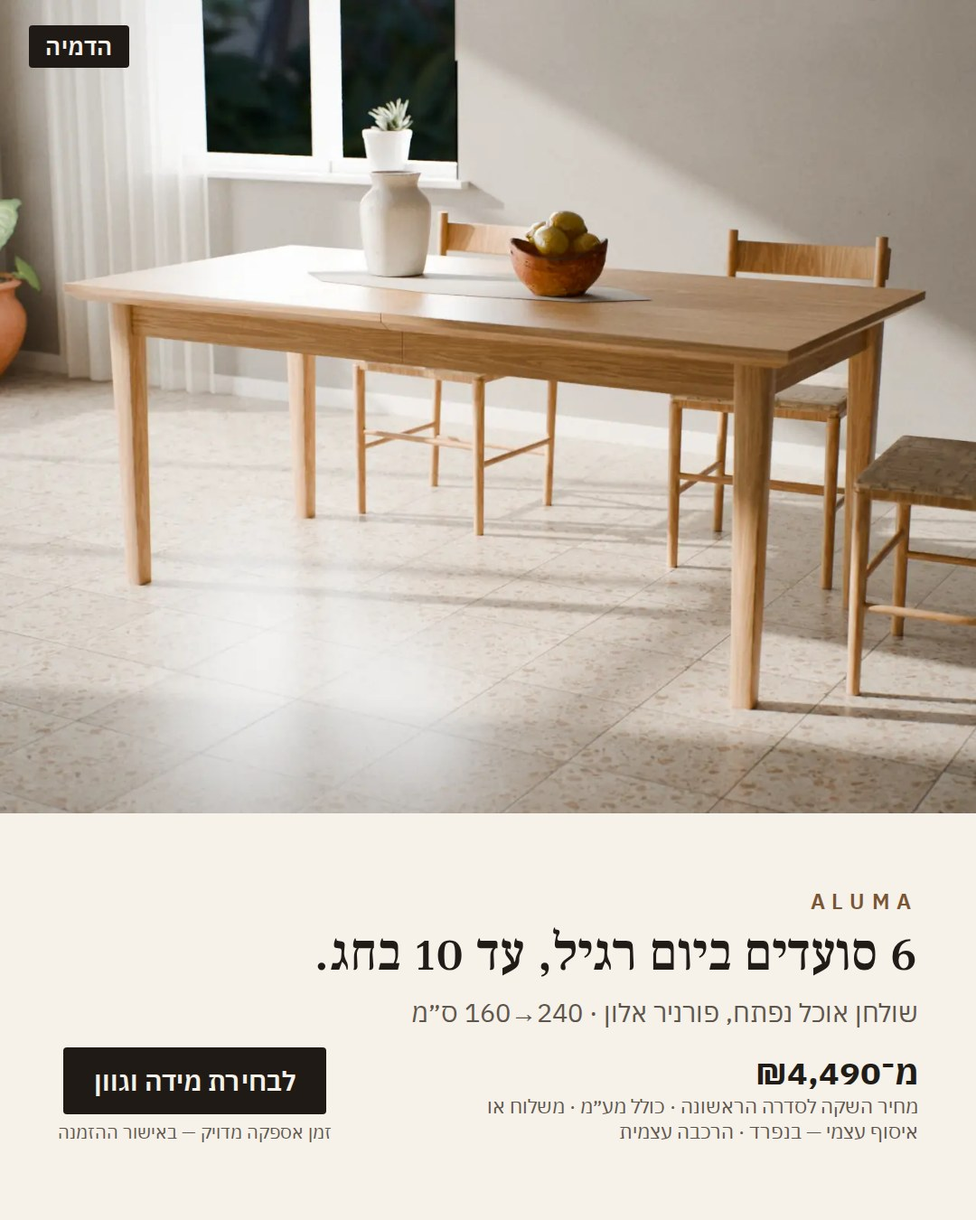
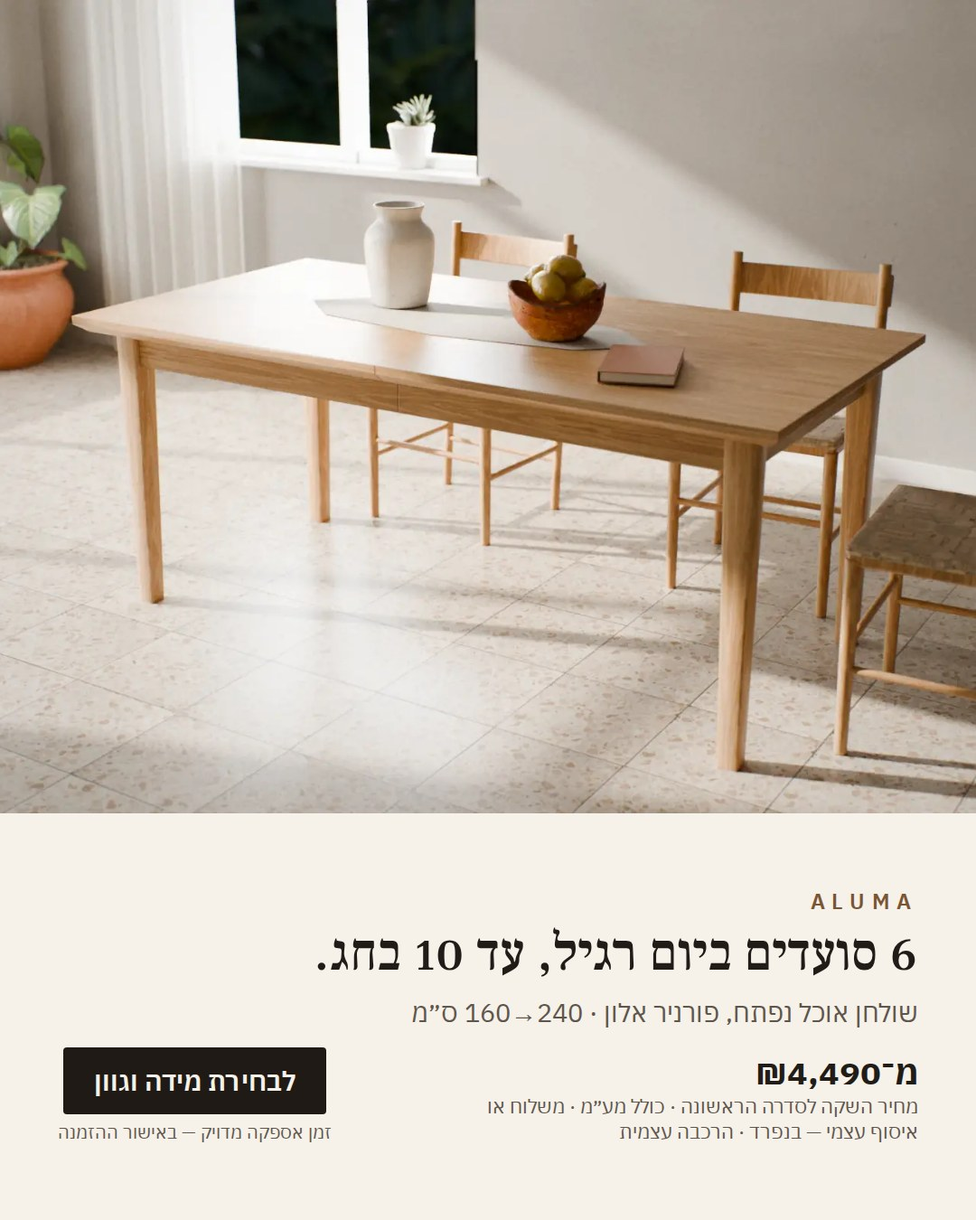
chore(site): хвости «הדמיה», кнопка en 1440, невикористані ключі i18n (№23) (#144)
* chore(site): хвости «הדמיה», кнопка en 1440, невикористані ключі i18n (№23)

- aria-roledescription 3D без «הדמיה»; тест: dist/ без слова поза terms
- IG 04/05 без «הדמיה»; генератори OG і креативів без плашки (mark порожній)
- пара кнопок картки: текст переноситься в кнопці; responsive.spec — пара в колонці
- tools/i18n_unused.py + тест; прибрано a11y_close, cta_register_short, pt_2, trust_own

Claude-Session: https://claude.ai/code/session_01JBa4pMSknCistJo1f6VYPh

* chore(og): OG і креативи перегенеровано без плашки «הדמיה» (№23)

Ті самі інструменти: tools/make-og-products.js (7 OG, home-he без сирого <span>),
tools/creatives/build.js (9 креативів ✓, report.json).

Claude-Session: https://claude.ai/code/session_01JBa4pMSknCistJo1f6VYPh

---------

diff --git a/docs/creatives/preview.html b/docs/creatives/preview.html
@@ -4,9 +4,9 @@
 <style>body{margin:0;padding:24px;background:#F6F1E9;color:#211C17;font:15px/1.4 system-ui,sans-serif}
 h1{font-size:22px;margin:0 0 16px}h2{font-size:17px;margin:24px 0 8px}.row{display:flex;gap:16px;align-items:flex-start;flex-wrap:wrap}
 figure{margin:0}img{display:block;height:auto;max-width:100%;box-shadow:0 1px 4px rgba(0,0,0,.18)}figcaption{font-size:13px;color:#5E554C;margin-top:6px}</style>
-</head><body><h1>ALUMA — креативи для тесту Meta (візуалізації, «הדמיה»)</h1>
+</head><body><h1>ALUMA — креативи для тесту Meta (візуалізації, «»)</h1>
 <p>Згенеровано: node tools/creatives/build.js. Ціни — «מחיר השקה לסדרה הראשונה», з каталогу.</p>
-<section><h2>tavor</h2><div class="row"><figure><img src="tavor-1080x1080.jpg" alt="tavor 1080×1080" width="270" height="270"><figcaption>1080×1080 · 142 KB · текст 9.9 % · контраст ≥ 5.9</figcaption></figure><figure><img src="tavor-1080x1350.jpg" alt="tavor 1080×1350" width="270" height="337.5"><figcaption>1080×1350 · 160 KB · текст 9.1 % · контраст ≥ 5.9</figcaption></figure><figure><img src="tavor-1080x1920.jpg" alt="tavor 1080×1920" width="270" height="480"><figcaption>1080×1920 · 250 KB · текст 6.6 % · контраст ≥ 5.9</figcaption></figure></div></section>
-<section><h2>sahar</h2><div class="row"><figure><img src="sahar-1080x1080.jpg" alt="sahar 1080×1080" width="270" height="270"><figcaption>1080×1080 · 146 KB · текст 9.5 % · контраст ≥ 5.9</figcaption></figure><figure><img src="sahar-1080x1350.jpg" alt="sahar 1080×1350" width="270" height="337.5"><figcaption>1080×1350 · 167 KB · текст 8.7 % · контраст ≥ 5.9</figcaption></figure><figure><img src="sahar-1080x1920.jpg" alt="sahar 1080×1920" width="270" height="480"><figcaption>1080×1920 · 263 KB · текст 6.3 % · контраст ≥ 5.9</figcaption></figure></div></section>
-<section><h2>collection</h2><div class="row"><figure><img src="collection-1080x1080.jpg" alt="collection 1080×1080" width="270" height="270"><figcaption>1080×1080 · 180 KB · текст 9.2 % · контраст ≥ 5.9</figcaption></figure><figure><img src="collection-1080x1350.jpg" alt="collection 1080×1350" width="270" height="337.5"><figcaption>1080×1350 · 219 KB · текст 8.3 % · контраст ≥ 5.9</figcaption></figure><figure><img src="collection-1080x1920.jpg" alt="collection 1080×1920" width="270" height="480"><figcaption>1080×1920 · 240 KB · текст 6.0 % · контраст ≥ 5.9</figcaption></figure></div></section>
+<section><h2>tavor</h2><div class="row"><figure><img src="tavor-1080x1080.jpg" alt="tavor 1080×1080" width="270" height="270"><figcaption>1080×1080 · 141 KB · текст 9.7 % · контраст ≥ 5.9</figcaption></figure><figure><img src="tavor-1080x1350.jpg" alt="tavor 1080×1350" width="270" height="337.5"><figcaption>1080×1350 · 161 KB · текст 8.9 % · контраст ≥ 5.9</figcaption></figure><figure><img src="tavor-1080x1920.jpg" alt="tavor 1080×1920" width="270" height="480"><figcaption>1080×1920 · 171 KB · текст 6.4 % · контраст ≥ 5.9</figcaption></figure></div></section>
+<section><h2>sahar</h2><div class="row"><figure><img src="sahar-1080x1080.jpg" alt="sahar 1080×1080" width="270" height="270"><figcaption>1080×1080 · 147 KB · текст 9.3 % · контраст ≥ 5.9</figcaption></figure><figure><img src="sahar-1080x1350.jpg" alt="sahar 1080×1350" width="270" height="337.5"><figcaption>1080×1350 · 166 KB · текст 8.5 % · контраст ≥ 5.9</figcaption></figure><figure><img src="sahar-1080x1920.jpg" alt="sahar 1080×1920" width="270" height="480"><figcaption>1080×1920 · 175 KB · текст 6.1 % · контраст ≥ 5.9</figcaption></figure></div></section>
+<section><h2>collection</h2><div class="row"><figure><img src="collection-1080x1080.jpg" alt="collection 1080×1080" width="270" height="270"><figcaption>1080×1080 · 173 KB · текст 9.0 % · контраст ≥ 5.9</figcaption></figure><figure><img src="collection-1080x1350.jpg" alt="collection 1080×1350" width="270" height="337.5"><figcaption>1080×1350 · 210 KB · текст 8.1 % · контраст ≥ 5.9</figcaption></figure><figure><img src="collection-1080x1920.jpg" alt="collection 1080×1920" width="270" height="480"><figcaption>1080×1920 · 234 KB · текст 5.9 % · контраст ≥ 5.9</figcaption></figure></div></section>
 </body></html>

diff --git a/tools/creatives/video.js b/tools/creatives/video.js
@@ -16,7 +16,7 @@ const fs = require('fs');
 const os = require('os');
 const path = require('path');
 const { spawnSync } = require('child_process');
-const { ROOT, TYPES, LANGS, localize, local, esc, fontFaces, fill, priceVars, headlineOf } = require('./build');
+const { ROOT, TYPES, LANGS, localize, local, esc, dropEmptyMark, fontFaces, fill, priceVars, headlineOf } = require('./build');
 
 process.env.PLAYWRIGHT_BROWSERS_PATH = process.env.PLAYWRIGHT_BROWSERS_PATH || '/opt/ihor/aluma-table/ms-playwright';
 const { chromium } = require('@playwright/test');
@@ -131,10 +131,10 @@ function html(template, cfg, f, plan, fonts, id) {
   const shots = plan.imgs.map((file, i) => `<div class="shot${fullIn(file, f) ? ' full' : ''}${frameFor(file, f) !== file ? ' tall' : ''}"><img src="${ORIGIN}/img/${id}/${i}" alt=""></div>`).join('');
   const map = { ...lang, FONTS: fonts.css, SERIF: fonts.serif, W: f.width, H: f.height, FORMAT: f.id, SHOTS: shots,
     CARD: plan.card, MARK: esc(cfg.mark), TIMELINE: JSON.stringify(plan.timeline) };
-  return template.replace(/\{\{(\w+)\}\}/g, (m, k) => {
+  return dropEmptyMark(template.replace(/\{\{(\w+)\}\}/g, (m, k) => {
     if (!(k in map)) throw new Error(`шаблон: невідомий ${m}`);
     return String(map[k]);
-  });
+  }));
 }
 
 // У сторінці, на кадрі часу t: що з тексту видно, де воно, який контраст; «הדמיה»; переповнення картки.
@@ -176,7 +176,7 @@ function inspect(safe) {
     out.push({ text: el.textContent.trim().slice(0, 30), alpha: a, contrast: bg ? (x + 0.05) / (y + 0.05) : 0,
       inside: r.left >= 0 && r.right <= W && r.top >= safe * H - 0.5 && r.bottom <= (1 - safe) * H + 0.5 });
   }
-  const mark = document.querySelector('.mark'); const m = mark.getBoundingClientRect();
+  const mark = document.querySelector('.mark'); const m = mark ? mark.getBoundingClientRect() : { top: 0, left: 0, width: 0 };
   const card = document.querySelector('.card');
   const over = [card, ...card.querySelectorAll('.item')].some((e) => e.scrollHeight > e.clientHeight + 1 || e.scrollWidth > e.clientWidth + 1);
   // Товар не під карткою: де кадр — смуга (9:16, 4:5), картка починається нижче за неї; у 9:16 картка ще й вище нижніх 20 %.
@@ -187,9 +187,9 @@ function inspect(safe) {
   const fullTooHigh = !!document.querySelector('.shot.tall') && cr.top < 1000;
   const fullNot916 = [...document.querySelectorAll('.shot.tall img')].some((i) => i.naturalWidth * 16 !== i.naturalHeight * 9);
   const low = safe > 0 && cr.bottom > 0.8 * H + 0.5;
-  return { texts: out, covered, low, fullTooHigh, fullNot916, mark: mark.textContent.trim(), markAlpha: alpha(mark), markInside: m.top >= safe * H - 0.5 && m.left >= 0 && m.width > 0,
+  return { texts: out, covered, low, fullTooHigh, fullNot916, mark: mark ? mark.textContent.trim() : '', markAlpha: mark ? alpha(mark) : 1, markInside: m.top >= safe * H - 0.5 && m.left >= 0 && m.width > 0,
     over, imagesOk: [...document.images].every((i) => i.complete && i.naturalWidth > 0),
-    fontsOk: fontFor(mark.textContent.trim(), '600') };
+    fontsOk: mark ? fontFor(mark.textContent.trim(), '600') : document.fonts.check('600 26px "IBM Plex Sans Hebrew"', 'א') };
 }
 
 function ffmpeg(argv) {
@@ -281,7 +281,7 @@ async function main() {
           await page.evaluate((x) => window.render(x), t);
           if (i % (FPS / 2) === 0) {
             const c = await page.evaluate(inspect, safe);
-            if (c.mark !== cfg.mark || c.markAlpha < 0.999 || !c.markInside) problems.add(`${t.toFixed(1)} с: нема «${cfg.mark}»`);
+            if (cfg.mark && (c.mark !== cfg.mark || c.markAlpha < 0.999 || !c.markInside)) problems.add(`${t.toFixed(1)} с: нема «${cfg.mark}»`);
             if (c.over) problems.add(`${t.toFixed(1)} с: картка переповнена`);
             if (c.covered) problems.add(`${t.toFixed(1)} с: картка закриває кадр товару`);
             if (c.fullNot916) problems.add('вертикальний рендер не 9:16');

diff --git a/tools/make-og-products.js b/tools/make-og-products.js
@@ -1,6 +1,7 @@
 // og:image кожного товару: герой із catalog/images[0] → site/assets/og/<slug>.jpg, 1200x630 (Meta, WhatsApp, X).
 // Загальні сторінки: home-he.jpg / home-en.jpg — герой HERO_PRODUCT із content.json, ALUMA і hero_h1 з i18n.
-// Кадр — візуалізація, тож на ньому завжди позначка «הדמיה» / «Visualisation» (як на сайті). Запуск після зміни героїв:
+// Без плашки «הדמיה» (з 25.10, слово власника 24.10: «не пиши, что это визуализация»; застереження — у terms).
+// hero_h1 у i18n несе <span class="acc"> — на превью лише текст, без розмітки. Запуск після зміни героїв:
 //   PLAYWRIGHT_BROWSERS_PATH=... node tools/make-og-products.js
 const { chromium } = require('playwright');
 const path = require('path');
@@ -25,9 +26,7 @@ const products = (Array.isArray(cat) ? cat : cat.products).filter((p) => !p.hidd
       @font-face{font-family:P;src:url(${font}) format("woff2")}
       html,body{margin:0;width:1200px;height:630px;overflow:hidden;background:#F6F1E9}
       img{width:1200px;height:630px;object-fit:cover;object-position:50% 62%;display:block}
-      span{position:absolute;top:24px;right:24px;font:600 22px/1 P,sans-serif;color:#F6F1E9;background:rgba(33,28,23,.72);
-        padding:8px 14px;border-radius:999px}
-    </style><img src="${img}"><span>הדמיה</span></html>`, { waitUntil: 'load' });
+    </style><img src="${img}"></html>`, { waitUntil: 'load' });
     await p.evaluate(() => document.fonts.ready);
     const out = path.join(root, 'site/assets/og', prod.slug + '.jpg');
     await p.screenshot({ path: out, type: 'jpeg', quality: 82 });
@@ -50,15 +49,13 @@ const products = (Array.isArray(cat) ? cat : cat.products).filter((p) => !p.hidd
       html,body{margin:0;width:1200px;height:630px;overflow:hidden;background:#211C17}
       img{position:absolute;inset:0;width:1200px;height:630px;object-fit:cover;object-position:50% 62%;display:block}
       .sh{position:absolute;inset:0;background:linear-gradient(to top,rgba(22,17,12,.86) 0%,rgba(22,17,12,.5) 40%,rgba(22,17,12,0) 72%)}
-      .tag{position:absolute;top:28px;inset-inline-end:28px;font:600 22px/1 P,sans-serif;color:#F6F1E9;background:rgba(33,28,23,.72);
-        padding:8px 14px;border-radius:999px}
       .txt{position:absolute;inset-inline:64px;bottom:56px;color:#F6F1E9}
       .logo{display:inline-block;font:400 30px/1 F,serif;letter-spacing:.32em;margin-bottom:22px}
       .logo small{font:600 24px/1 P,sans-serif;letter-spacing:0;margin-inline-start:14px;opacity:.85}
       h1{margin:0;font:400 64px/1.08 F,serif;max-width:900px;text-shadow:0 2px 24px rgba(0,0,0,.3)}
       p{margin:18px 0 0;font:600 24px/1.3 P,sans-serif;opacity:.88}
-    </style><img src="${img}"><div class="sh"></div><span class="tag">${esc(t.viz_tag)}</span>
-    <div class="txt"><div class="logo" dir="ltr">ALUMA<small>אלומה</small></div><h1>${esc(t.hero_h1)}</h1><p>${esc(t.launch_bar)}</p></div></html>`,
+    </style><img src="${img}"><div class="sh"></div>
+    <div class="txt"><div class="logo" dir="ltr">ALUMA<small>אלומה</small></div><h1>${esc(String(t.hero_h1).replace(/<[^>]+>/g, ''))}</h1><p>${esc(t.launch_bar)}</p></div></html>`,
     { waitUntil: 'load' });
     await p.evaluate(() => document.fonts.ready);
     const out = path.join(root, 'site/assets/og', `home-${loc}.jpg`);

diff --git a/tools/creatives/build.js b/tools/creatives/build.js
@@ -163,10 +163,16 @@ function variantHtml(template, cfg, variant, format, products, fonts, imagePaths
     PRICE_NOTE: esc(products.length > 1 ? cfg.price_note_many : cfg.price_note), INCLUDES: esc(cfg.includes),
     CTA: esc(cfg.cta), CTA_NOTE: esc(cfg.cta_note),
   };
-  return template.replace(/\{\{(\w+)\}\}/g, (m, k) => {
+  return dropEmptyMark(template.replace(/\{\{(\w+)\}\}/g, (m, k) => {
     if (!(k in map)) throw new Error(`шаблон: невідомий ${m}`);
     return String(map[k]);
-  });
+  }));
+}
+
+// Порожній "mark" у creatives.json — кадр без плашки (he з 25.10, слово власника 24.10: «не пиши, что это
+// визуализация»); порожній div із фоном лишив би темну пігулку, тож прибираємо його цілком
+function dropEmptyMark(html) {
+  return html.replace(/<div class="mark" data-text><\/div>\s*/, '');
 }
 
 // У сторінці: частка площі під текстом (прямокутники рядків), контраст кожного тексту до непрозорого тла,
@@ -332,7 +338,8 @@ async function main() {
           if (t.contrast < MIN_CONTRAST) problems.push(`контраст ${t.contrast.toFixed(2)} «${t.text}»`);
           if (!t.inside) problems.push(`виходить за кадр «${t.text}»`);
         }
-        if (m.mark !== cfg.mark || !m.markVisible) problems.push(`нема позначки «${cfg.mark}»`);
+        if (cfg.mark && (m.mark !== cfg.mark || !m.markVisible)) problems.push(`нема позначки «${cfg.mark}»`);
+        if (!cfg.mark && m.mark) problems.push('плашка на кадрі, хоча mark порожній');
         if (m.panelOverflow) problems.push('панель переповнена');
         if (!m.imagesOk) problems.push('кадр не завантажився');
         m.tiles.forEach((share, i) => {
@@ -378,7 +385,7 @@ async function main() {
   console.log(`готово: ${report.creatives.length} креативів → ${path.relative(ROOT, outDir) || outDir}`);
 }
 
-module.exports = { ROOT, ORIGIN, TYPES, LANGS, MAX_BYTES, MAX_TEXT_SHARE, MIN_CONTRAST, MIN_TILE_SHARE, localize, local, esc, money, fontFaces, fill, priceVars, headlineOf, measure, shoot };
+module.exports = { ROOT, ORIGIN, TYPES, LANGS, MAX_BYTES, MAX_TEXT_SHARE, MIN_CONTRAST, MIN_TILE_SHARE, localize, local, esc, dropEmptyMark, money, fontFaces, fill, priceVars, headlineOf, measure, shoot };
 
 // Модулем його бере tools/creatives/video.js — тоді знімки не робимо.
 if (require.main === module) main().catch((e) => { console.error(e.message || e); process.exit(1); });

diff --git a/tests/responsive.spec.js b/tests/responsive.spec.js
@@ -251,3 +251,37 @@ for (const pagePath of ['/', '/en/', '/ru/', '/p/tavor/', '/en/p/tavor/', '/ru/p
     });
   }
 }
+
+// №23: пара кнопок картки («у кошик» + «є питання? передзвонимо») — рівно на 390/768/1440 у he/en/ru:
+// текст не вилазить за кнопку, кнопка — за колонку покупки, у ряд — одна висота й один верх, стовпчиком — одна ширина
+for (const pagePath of ['/p/tavor/', '/en/p/tavor/', '/ru/p/tavor/']) {
+  for (const w of [390, 768, 1440]) {
+    test(`пара кнопок ${pagePath} @${w}`, async ({ page }) => {
+      await serveDist(page);
+      await page.setViewportSize({ width: w, height: 900 });
+      await page.goto(ORIGIN + pagePath, { waitUntil: 'load' });
+      await settle(page);
+      const problems = await page.evaluate(() => {
+        const out = [];
+        const col = document.querySelector('.pdp-buy').getBoundingClientRect();
+        const btns = [...document.querySelectorAll('.pdp-pair .btn')];
+        if (btns.length !== 2) out.push({ rule: 'pair', where: '.pdp-pair', detail: `кнопок ${btns.length}` });
+        const rs = btns.map((b) => b.getBoundingClientRect());
+        btns.forEach((b, i) => {
+          const t = (b.textContent || '').trim().slice(0, 24);
+          if (b.scrollWidth > b.clientWidth + 1) out.push({ rule: 'pair-text', where: t, detail: `${b.scrollWidth} > ${b.clientWidth}` });
+          if (rs[i].left < col.left - 1 || rs[i].right > col.right + 1) {
+            out.push({ rule: 'pair-col', where: t, detail: `x ${Math.round(rs[i].left)}…${Math.round(rs[i].right)} / ${Math.round(col.left)}…${Math.round(col.right)}` });
+          }
+        });
+        if (rs.length === 2) {
+          const row = Math.abs(rs[0].top - rs[1].top) < 1;
+          if (row && Math.abs(rs[0].height - rs[1].height) > 1) out.push({ rule: 'pair-level', where: '.pdp-pair', detail: `висоти ${Math.round(rs[0].height)} / ${Math.round(rs[1].height)}` });
+          if (!row && Math.abs(rs[0].width - rs[1].width) > 1) out.push({ rule: 'pair-level', where: '.pdp-pair', detail: `ширини ${Math.round(rs[0].width)} / ${Math.round(rs[1].width)}` });
+        }
+        return out;
+      });
+      expect(report(pagePath, `пара ${pagePath} @${w}`, problems), pagePath).toEqual([]);
+    });
+  }
+}

diff --git a/tools/creatives/pagekit.js b/tools/creatives/pagekit.js
@@ -85,7 +85,7 @@ async function main() {
     '@tone_note': he.matb_3_p.split(';')[0].trim(),   // «הגוון במסך הוא קירוב» — як на сайті біля тонів
     '@includes': he.pt_1,                             // «המחיר כולל מע״מ, משלוח והרכבה»
   };
-  const mark = `<div class="mark" data-text>${B.esc(ccfg.mark)}</div>`;
+  const mark = ccfg.mark ? `<div class="mark" data-text>${B.esc(ccfg.mark)}</div>` : '';
   const tiles = (n) => Array.from({ length: n }, (_, i) => `<img src="${B.ORIGIN}/img/${i}" alt="">`).join('');
 
   // План знімків: {file, kind, format, body, images[], products[]}.
@@ -178,7 +178,7 @@ async function main() {
         if (t.contrast < B.MIN_CONTRAST) problems.push(`контраст ${t.contrast.toFixed(2)} «${t.text}»`);
         if (!t.inside) problems.push(`виходить за кадр «${t.text}»`);
       }
-      if (job.images.length && (m.mark !== ccfg.mark || !m.markVisible)) problems.push('кадр без позначки «הדמיה»');
+      if (job.images.length && ccfg.mark && (m.mark !== ccfg.mark || !m.markVisible)) problems.push('кадр без позначки «הדמיה»');
       if (m.panelOverflow) problems.push('панель переповнена');
       if (!m.imagesOk) problems.push('кадр не завантажився');
       // Позначка «הדמיה» (Plex 600) є лише на кадрах; лого — Frank Ruhl Libre 400 + Plex 400, Highlights — без тексту.

diff --git a/tools/creatives/tones.js b/tools/creatives/tones.js
@@ -57,10 +57,10 @@ function cardHtml(template, cfg, product, tone, i, n, format, fonts, note) {
     MARK: B.esc(cfg.mark), BRAND: B.esc(cfg.brand), TONE: B.esc(B.local(tone.name, lang, `finishes.${tone.id}.name`)),
     SUB: B.fill(cfg.tones.sub, { name: B.esc(B.local(product.name, lang, `${product.id}.name`)), i, n }), NOTE: B.esc(note),
   };
-  return template.replace(/\{\{(\w+)\}\}/g, (m, k) => {
+  return B.dropEmptyMark(template.replace(/\{\{(\w+)\}\}/g, (m, k) => {
     if (!(k in map)) throw new Error(`шаблон: невідомий ${m}`);
     return String(map[k]);
-  });
+  }));
 }
 
 async function main() {
@@ -123,7 +123,8 @@ async function main() {
           if (t.contrast < B.MIN_CONTRAST) problems.push(`контраст ${t.contrast.toFixed(2)} «${t.text}»`);
           if (!t.inside) problems.push(`виходить за кадр «${t.text}»`);
         }
-        if (m.mark !== cfg.mark || !m.markVisible) problems.push(`нема позначки «${cfg.mark}»`);
+        if (!cfg.mark && m.mark) problems.push('плашка на кадрі, хоча mark порожній');
+        if (cfg.mark && (m.mark !== cfg.mark || !m.markVisible)) problems.push(`нема позначки «${cfg.mark}»`);
         if (m.panelOverflow) problems.push('панель переповнена');
         if (!m.imagesOk) problems.push('кадр не завантажився');
         if (!m.fontsOk) problems.push('шрифт сайту не завантажився');

diff --git a/site/assets/aluma.css b/site/assets/aluma.css
@@ -627,6 +627,10 @@ html[lang="ru"] :is(.f-fine, .pdp-est) { hyphens: manual; }
 /* «הוספה לסל» і м'який крок «שאלה? נחזור אליכם» — в один ряд; вузька колонка — переноситься, ≤ 480 px — стовпчик */
 .pdp-pair { display: flex; flex-wrap: wrap; gap: 10px; }
 .pdp-pair .btn { flex: 1 1 12rem; min-width: 0; }
+/* №23: en «Have a question? We’ll call you back» на 1440 у nowrap вилазила за свою кнопку й колонку покупки —
+   у парі текст переноситься всередині кнопки, обидві тягнуться до однієї висоти (align-items: stretch) */
+.pdp-pair .btn { white-space: normal; text-wrap: balance; text-align: center; line-height: 1.25;
+  padding-block: 8px; padding-inline: 20px; }
 @media (max-width: 480px) { .pdp-pair { flex-direction: column; } .pdp-pair .btn { flex: none; width: 100%; } }
 .pdp-ask-hint { margin: -2px 0 0; line-height: 1.4; }
 /* «התקשרו אלינו» (24.10): третя кнопка на всю ширину + міні-форма з телефоном під нею */

diff --git a/site/assets/products/aluma3d.js b/site/assets/products/aluma3d.js
@@ -714,7 +714,7 @@
       renderer.domElement.setAttribute('aria-hidden', 'true');
       el.appendChild(renderer.domElement);
       el.setAttribute('tabindex', '0'); el.setAttribute('role', 'img');
-      el.setAttribute('aria-roledescription', opts.roleText || 'הדמיה בתלת־ממד');
+      el.setAttribute('aria-roledescription', opts.roleText || 'תצוגה תלת־ממדית');
       if (opts.label) el.setAttribute('aria-label', opts.label);
       var desc = document.createElement('p');
       desc.id = 'a3d-' + Math.random().toString(36).slice(2, 9);

diff --git a/tools/i18n_unused.py b/tools/i18n_unused.py
@@ -1,0 +1,67 @@
+#!/usr/bin/env python3
+"""Ключі i18n/<мова>.json, на які нема посилань у site/ і build.py (№23, 25.10).
+
+Ключ використаний, якщо його ім'я стоїть словом у site/** чи build.py, або підпадає під динамічне ім'я з build.py:
+префікс перед «{» у f-рядку (`t.trust_strip_{k}_p`, `inside_{k}` → усе, що починається з «trust_strip_», «inside_»)
+і форма «_few» для ru (`few("inc_sizes", …)` → «inc_sizes_few»). Помилка в бік «використаний» — безпечна; хибне
+«не використаний» ловить сама збірка: невідомий {{t.key}} валить build.py («unknown tokens in templates»).
+Вкладені обʼєкти (`js`, `faq`, `cities`) рахуються цілком за своїм іменем; `_comment` і `_*` — не ключі.
+
+  python3 tools/i18n_unused.py            # список, код 1, якщо щось знайшлося
+"""
+
+from __future__ import annotations
+
+import json
+import pathlib
+import re
+import sys
+
+ROOT = pathlib.Path(__file__).resolve().parent.parent
+LOCALES = ("he", "en", "ru")
+TEXT = {".html", ".js", ".css", ".json", ".svg", ".txt", ".xml", ".webmanifest"}
+# Свідомо лишені без посилань у site/: viz_tag — слово «הדמיה» для креативів (рівність ru-креативів і /ru/ —
+# tests/test_quality_creatives.py), рішення диригента 25.10
+KEEP = {"viz_tag"}
+
+
+def corpus(root: pathlib.Path) -> str:
+    parts = [(root / "build.py").read_text(encoding="utf-8")]
+    for f in sorted((root / "site").rglob("*")):
+        if f.is_file() and f.suffix in TEXT and "vendor" not in f.parts:
+            parts.append(f.read_text(encoding="utf-8", errors="replace"))
+    return "\n".join(parts)
+
+
+def dynamic_prefixes(build_src: str) -> set[str]:
+    # «inside_{k}», «trust_strip_{k}_p», «unfold_{state}» — ім'я, що закінчується «_» просто перед «{»
+    return set(re.findall(r"\b([a-z][a-z0-9]*(?:_[a-z0-9]+)*_)\{", build_src))
+
+
+def unused(root: pathlib.Path = ROOT) -> list[str]:
+    text = corpus(root)
+    words = set(re.findall(r"[A-Za-z_][A-Za-z0-9_]*", text))
+    prefixes = dynamic_prefixes((root / "build.py").read_text(encoding="utf-8"))
+    keys: set[str] = set()
+    for loc in LOCALES:
+        keys |= {k for k in json.loads((root / "i18n" / f"{loc}.json").read_text(encoding="utf-8")) if not k.startswith("_")}
+
+    def used(k: str) -> bool:
+        if k in words or k in KEEP:
+            return True
+        if k.endswith("_few") and k[:-4] in words:
+            return True
+        return any(k.startswith(p) for p in prefixes)
+
+    return sorted(k for k in keys if not used(k))
+
+
+def main() -> int:
+    found = unused()
+    for k in found:
+        print(k)
+    return 1 if found else 0
+
+
+if __name__ == "__main__":
+    sys.exit(main())

diff --git a/tests/test_build_site.py b/tests/test_build_site.py
@@ -538,6 +538,26 @@ class BuiltSiteTests(unittest.TestCase):
             # «הוספה לסל» — так (specs/003); «קנה עכשיו» без оплати на сайті — обіцянка, якої нема
             self.assertIsNone(re.search(r">\s*(קנה|קנו|Buy now)\s*<", html), f"{rel}: кнопка «купити»")
 
+    def test_no_visualisation_word_outside_terms(self):
+        # слово власника 24.10: «не пиши, что это визуализация» — ні на сторінках he/en/ru, ні в JS/JSON, які
+        # читає гість чи читач екрана (№19 — тексти, №23 — aria-roledescription 3D); лишається тільки юридичне
+        # застереження в terms («не як на картинці», рішення диригента 25.10)
+        word = re.compile(r"הדמי|визуализ|visuali[sz]", re.I)
+        found = []
+        for f in sorted(self.dist.rglob("*")):
+            rel = f.relative_to(self.dist).as_posix()
+            if not f.is_file() or f.suffix not in (".html", ".js", ".json", ".css", ".xml", "") or rel.endswith(".bin"):
+                continue
+            if re.fullmatch(r"(?:(?:en|ru)/)?terms(?:\.html|/index\.html)?", rel):
+                continue
+            try:
+                text = f.read_text(encoding="utf-8")
+            except UnicodeDecodeError:
+                continue
+            if word.search(text):
+                found.append(rel)
+        self.assertEqual(found, [])
+
     def test_no_launch_discount_promise(self):
         # «מחיר השקה לסדרה הראשונה» (хвиля 1) — ціна серії, не знижка: ні «было», ні закреслених, ні відсотків,
         # ні «залишилось N», ні таймерів (§15 חוק הגנת הצרכן)

diff --git a/tests/test_i18n_unused.py b/tests/test_i18n_unused.py
@@ -1,0 +1,38 @@
+"""tools/i18n_unused.py: у i18n/<мова>.json нема ключів без посилань у site/ і build.py (№23).
+
+Мертвий ключ — переклад, який ніхто не бачить і всі три мови тягнуть далі (pt_2 після №19). Новий рядок
+без місця на сторінці — червоний тест; свідомо лишений — у KEEP із причиною.
+"""
+
+from __future__ import annotations
+
+import json
+import pathlib
+import shutil
+import tempfile
+import unittest
+
+from tools import i18n_unused
+
+PROJECT = pathlib.Path(__file__).resolve().parent.parent
+
+
+class I18nUnusedTests(unittest.TestCase):
+    def test_no_unused_keys(self):
+        self.assertEqual(i18n_unused.unused(), [])
+
+    def test_finds_a_key_without_reference_and_respects_dynamic_names(self):
+        tmp = pathlib.Path(tempfile.mkdtemp(prefix="aluma-i18n-unused-"))
+        self.addCleanup(shutil.rmtree, tmp, ignore_errors=True)
+        (tmp / "site").mkdir()
+        (tmp / "i18n").mkdir()
+        (tmp / "site" / "page.html").write_text("<p>{{t.used}}</p>", encoding="utf-8")
+        (tmp / "build.py").write_text('x = f"{{{{t.inside_{k}}}}}" + few("inc_sizes", n, loc)\n', encoding="utf-8")
+        keys = {"_comment": "", "used": "", "dead": "", "inside_legs": "", "inc_sizes": "", "inc_sizes_few": "", "viz_tag": ""}
+        for loc in i18n_unused.LOCALES:
+            (tmp / "i18n" / f"{loc}.json").write_text(json.dumps(keys), encoding="utf-8")
+        self.assertEqual(i18n_unused.unused(tmp), ["dead"])
+
+
+if __name__ == "__main__":
+    unittest.main()
